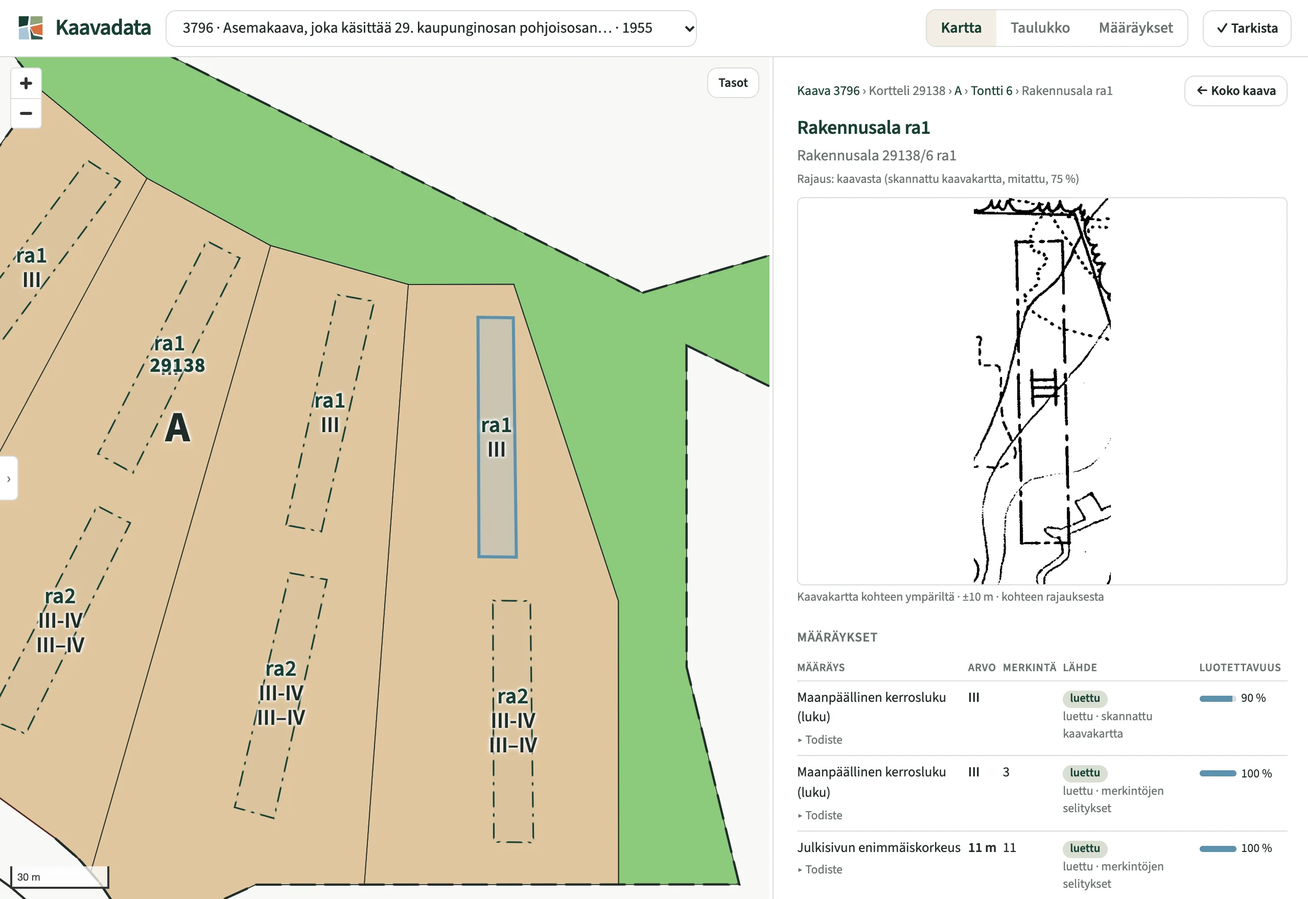
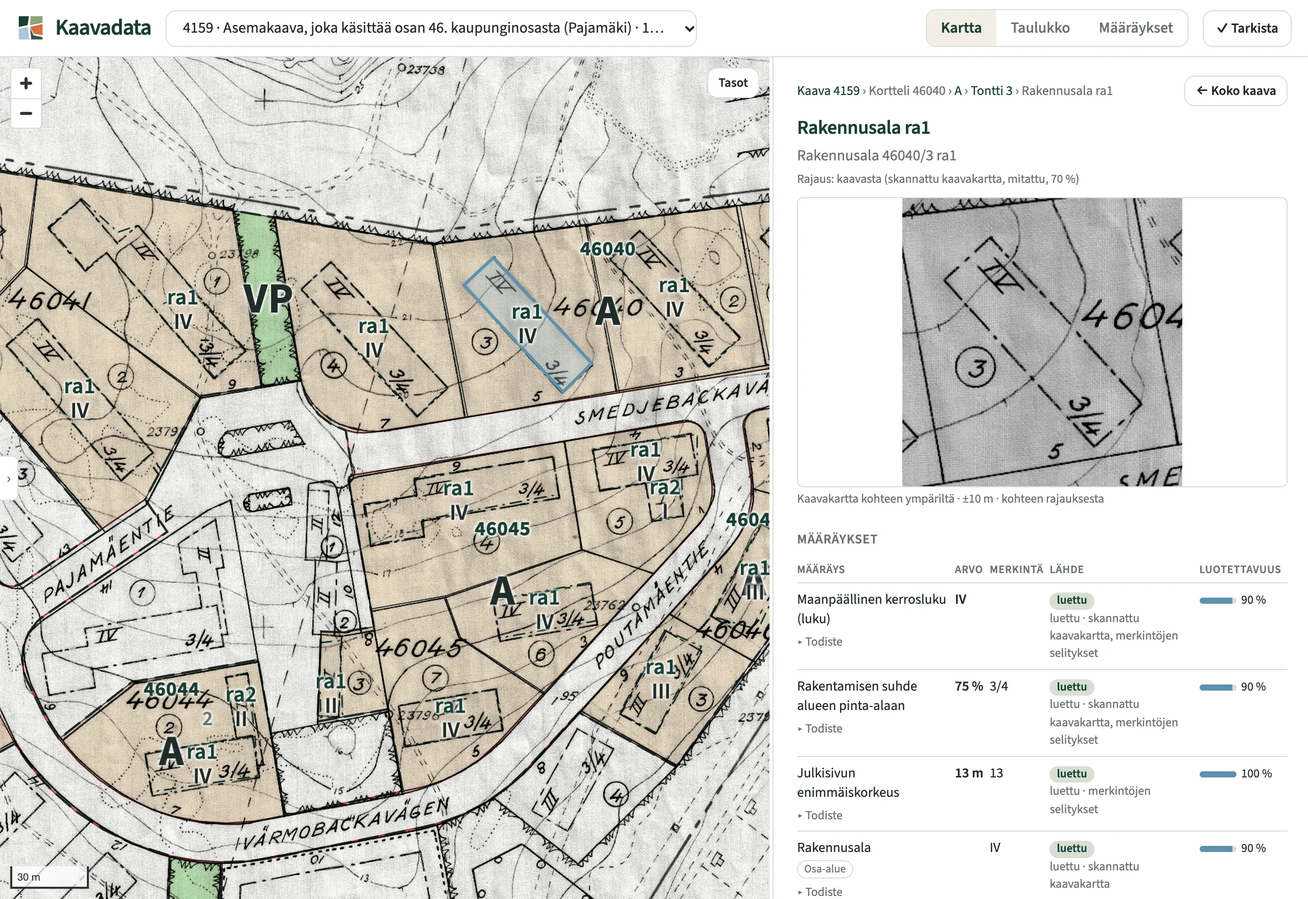
Screenshot: Helsinki's 4159 (Pajamäki, 1957, scanned), sheet and interpretation together

diff --git a/index.html b/index.html
@@ -71,7 +71,7 @@
              srcset="assets/kaavadata-nakyma-1280.webp 1280w, assets/kaavadata-nakyma-2560.webp 2560w"
              sizes="(max-width: 1168px) calc(100vw - 32px), 1120px"
              width="2560" height="1760" loading="lazy" decoding="async"
-             alt="Kaavadatan näkymä: vuoden 1955 asemakaavasta tulkitut kaavakohteet kartalla. Sivupaneelissa valitun rakennusalan kohta skannatusta kaavakartasta ja sen kaavamääräykset, kullakin lähde ja luotettavuus.">
+             alt="Kaavadatan näkymä: skannattu asemakaavakartta vuodelta 1957 ja sen päällä tulkitut kaavakohteet. Sivupaneelissa valitun rakennusalan kohta alkuperäisestä kaavakartasta ja sen kaavamääräykset, kullakin lähde ja luotettavuus.">
       </a>
       <figcaption>Alkuperäinen kaava, tulkitut kaavakohteet ja niiden määräykset samassa näkymässä. Jokaisesta tulkinnasta
         näkyy, mihin lähdeaineiston kohtaan se perustuu.</figcaption>
